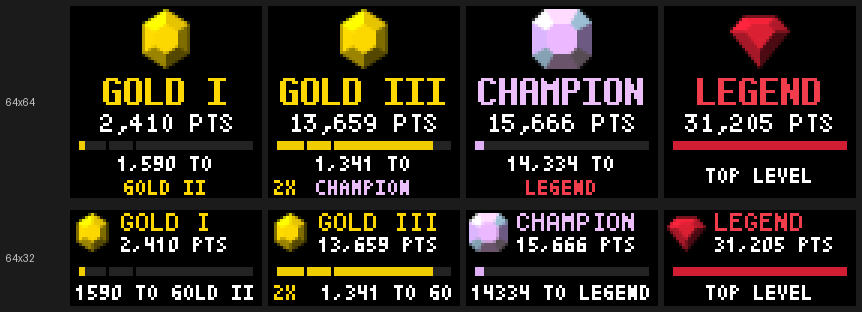
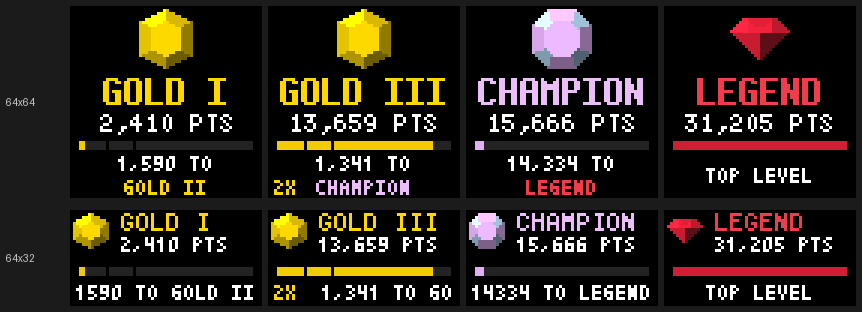
Club page: crisp hand-drawn gems, 2X in the bottom left corner
The gems are now pixel-art grids (GEM_ROWS) with flat facets and no blended
edges, hand-editable like the discipline icons; the 32-row gem is 12 px so the
hexagon's point is centred. 2X moves from the top right to the bottom left
corner on 64x64, as on 64x32.

diff --git a/display/ui/club_screen.py b/display/ui/club_screen.py
@@ -4,12 +4,11 @@ to the next level.
 64 rows: the gem (20 px) at the top, `GOLD III` in the tier's colour, `13,659 PTS`, the bar across the tier
 (a gap where each of its levels starts), then `1,341 TO` over `CHAMPION` in that level's colour (`TOP LEVEL` for
 a Legend); `2X` in gold in the bottom left corner during a double-points boost.
-32 rows: a 13 px gem at the left with the level and points beside it, the bar, then `1,341 TO CHAMPION`
+32 rows: a 12 px gem at the left with the level and points beside it, the bar, then `1,341 TO CHAMPION`
 (`2X` at its left when both fit).
 Before the first score only the gem and the level show (from /api/me).
 State: peloton.club.club_page (validated again here: the cache can hold anything).
 """
-import math
 from functools import lru_cache
 
 from driver import graphics
@@ -28,21 +27,121 @@ GEM_COLORS = {'BRONZE': (235, 115, 35), 'SILVER': (150, 180, 215), 'GOLD': (240,
               'CHAMPION': (225, 175, 245), 'LEGEND': (210, 30, 50)}
 TEXT_COLORS = {'BRONZE': (240, 140, 60), 'SILVER': (200, 215, 235), 'GOLD': (255, 215, 0),
                'CHAMPION': (235, 190, 250), 'LEGEND': (240, 60, 75)}
-# Champion's gem shimmers: its facets take turns in these.
-CHAMPION_FACETS = ((240, 190, 245), (180, 220, 245), (205, 170, 245), (245, 215, 235))
-# The gems' outlines in a 2 x 2 box centred on 0: a hexagon (bronze, silver, gold), an octagon (champion) and
-# a cut diamond (legend), as Peloton draws them; and the point the facets meet at.
-SHAPES = {
-    'HEX': ([(0.9 * math.cos(math.radians(a)), math.sin(math.radians(a))) for a in (-90, -30, 30, 90, 150, 210)],
-            (0.0, 0.0)),
-    'OCT': ([(-0.55, -1), (0.55, -1), (1, -0.55), (1, 0.55), (0.55, 1), (-0.55, 1), (-1, 0.55), (-1, -0.55)],
-            (0.0, 0.0)),
-    'DIAMOND': ([(-0.55, -0.75), (0.55, -0.75), (1, -0.25), (0, 1), (-1, -0.25)], (0.0, -0.25)),
+# The gems, hand-drawn pixel art in Peloton's shapes: a hexagon (bronze, silver, gold), an octagon (Champion) and
+# a cut diamond (Legend). `#` is the flat top face; every other letter is a facet, named for the way it faces,
+# and lit by how much it faces the top left (FACET_SHADES). Outlines step evenly (2 across 1 down on the
+# hexagon, 1 and 1 on the others), facets are flat colour and nothing is blended, so every pixel is crisp.
+# Hand-editable: change a letter, then `python scripts/render_club.py` to see it.
+GEM_ROWS = {
+    ('HEX', 20): (
+        '.........qp.........',
+        '.......qqqppp.......',
+        '.....qqqqqppppp.....',
+        '...qqqqqqqppppppp...',
+        '.wqqqqqqq##pppppppe.',
+        '.wwwqqq######pppeee.',
+        '.wwww##########eeee.',
+        '.wwww##########eeee.',
+        '.wwww##########eeee.',
+        '.wwww##########eeee.',
+        '.wwww##########eeee.',
+        '.wwww##########eeee.',
+        '.wwww##########eeee.',
+        '.wwww##########eeee.',
+        '.wwwzzz######mmmeee.',
+        '.wzzzzzzz##mmmmmmme.',
+        '...zzzzzzzmmmmmmm...',
+        '.....zzzzzmmmmm.....',
+        '.......zzzmmm.......',
+        '.........zm.........'),
+    ('HEX', 12): (
+        '.....qp.....',
+        '...qqqppp...',
+        '.qqqqqppppp.',
+        'wqqqq##ppppe',
+        'wwq######pee',
+        'www######eee',
+        'www######eee',
+        'wwz######mee',
+        'wzzzz##mmmme',
+        '.zzzzzmmmmm.',
+        '...zzzmmm...',
+        '.....zm.....'),
+    ('OCT', 20): (
+        '.....nnnnnnnnnn.....',
+        '....qqnnnnnnnnpp....',
+        '...qqqnnnnnnnnppp...',
+        '..qqqqnnnnnnnnpppp..',
+        '.qqqqqq######pppppp.',
+        'wqqqqq########pppppe',
+        'wwwwq##########peeee',
+        'wwww############eeee',
+        'wwww############eeee',
+        'wwww############eeee',
+        'wwww############eeee',
+        'wwww############eeee',
+        'wwww############eeee',
+        'wwwwz##########meeee',
+        'wzzzzz########mmmmme',
+        '.zzzzzz######mmmmmm.',
+        '..zzzzssssssssmmmm..',
+        '...zzzssssssssmmm...',
+        '....zzssssssssmm....',
+        '.....ssssssssss.....'),
+    ('OCT', 12): (
+        '...nnnnnn...',
+        '..qnnnnnnp..',
+        '.qqnnnnnnpp.',
+        'wqqq####pppe',
+        'wwq######pee',
+        'www######eee',
+        'www######eee',
+        'wwz######mee',
+        'wzzz####mmme',
+        '.zzssssssmm.',
+        '..zssssssm..',
+        '...ssssss...'),
+    ('DIAMOND', 20): (
+        '....................',
+        '....................',
+        '....................',
+        '....qq########pp....',
+        '...qqqn######nppp...',
+        '..qqqqnn####nnpppp..',
+        '.qqqqqnnnnnnnnppppp.',
+        'qqqqqqnnnnnnnnpppppp',
+        '.wwwwwwwwwmmmmmmmmm.',
+        '..wwwwwwwwmmmmmmmm..',
+        '...wwwwwwwmmmmmmm...',
+        '....wwwwwwmmmmmm....',
+        '.....wwwwwmmmmm.....',
+        '......wwwwmmmm......',
+        '.......wwwmmm.......',
+        '........wwmm........',
+        '.........wm.........',
+        '....................',
+        '....................',
+        '....................'),
+    ('DIAMOND', 12): (
+        '............',
+        '............',
+        '..qq####pp..',
+        '.qqqn##nppp.',
+        'qqqqnnnnpppp',
+        '.wwwwwmmmmm.',
+        '..wwwwmmmm..',
+        '...wwwmmm...',
+        '....wwmm....',
+        '.....wm.....',
+        '............',
+        '............'),
 }
 SHAPE_OF = {'CHAMPION': 'OCT', 'LEGEND': 'DIAMOND'}
-TABLE = 0.5  # the flat top face, as a share of the gem
-LIGHT = (-0.6, -0.8)  # light from the top left
-SUBSAMPLES = 4
+# How bright each facet is against the gem's colour: up-left brightest, down-right darkest.
+FACET_SHADES = {'#': 1.06, 'q': 1.3, 'n': 1.15, 'p': 0.9, 'w': 0.95, 'e': 0.6, 'z': 0.72, 's': 0.55, 'm': 0.45}
+# Champion's corner facets catch blue light, as on Peloton's badge.
+CHAMPION_CORNER = (175, 215, 240)
+CORNER_FACETS = frozenset('qpzm')
 # Where the 64-row page puts things: gem box, text baselines, bar rows.
 GEM_64, GEM_TOP_64 = 20, 1
 NAME_Y_64, POINTS_Y_64, BAR_TOP_64, TO_Y_64, NEXT_Y_64 = 33, 42, 45, 55, 63
@@ -50,26 +149,7 @@ TOP_LEVEL_Y_64 = 59  # `TOP LEVEL` alone, midway between the bar and the bottom
 BAR_LEFT, BAR_RIGHT = 3, 60
 # The level name's widest: a pixel clear of each edge.
 LEVEL_WIDTH = 62
-GEM_32, NAME_X_32, NAME_Y_32, POINTS_Y_32, BAR_TOP_32, LINE_Y_32 = 13, 17, 7, 14, 19, 30
-
-
-def _inside(point, polygon):
-    """Inside a convex polygon whose points run clockwise (y down)."""
-    x, y = point
-    for (ax, ay), (bx, by) in zip(polygon, polygon[1:] + polygon[:1]):
-        if (bx - ax) * (y - ay) - (by - ay) * (x - ax) < 0:
-            return False
-    return True
-
-
-def _facet(point, polygon, centre):
-    """Which edge's facet a point is in: the wedge from the centre between that edge's two corners."""
-    angle = math.atan2(point[1] - centre[1], point[0] - centre[0])
-    corners = [math.atan2(y - centre[1], x - centre[0]) for x, y in polygon]
-    for i, start in enumerate(corners[:-1]):
-        if (angle - start) % math.tau <= (corners[i + 1] - start) % math.tau:
-            return i
-    return len(corners) - 1  # the wedge from the last corner round to the first
+GEM_32, NAME_X_32, NAME_Y_32, POINTS_Y_32, BAR_TOP_32, LINE_Y_32 = 12, 17, 7, 14, 19, 30
 
 
 def _shade(color, factor):
@@ -78,37 +158,18 @@ def _shade(color, factor):
 
 @lru_cache(maxsize=16)
 def gem_pixels(kind, size):
-    """Every lit pixel of a `size`-pixel gem as (x, y, r, g, b) from its box's top left: the flat top face in
-    the gem's colour, each edge's facet lit by how much it faces the top left, the edges smoothed (4 x 4
-    samples a pixel). Cached: the page draws the same gem often."""
+    """Every lit pixel of a `size`-pixel gem (20 or 12) as (x, y, r, g, b) from its box's top left, from
+    GEM_ROWS: each facet one flat shade of the gem's colour. An unknown kind is gold. Cached."""
     kind = kind if kind in KINDS else 'GOLD'
-    polygon, centre = SHAPES[SHAPE_OF.get(kind, 'HEX')]
-    table = [(centre[0] + (x - centre[0]) * TABLE, centre[1] + (y - centre[1]) * TABLE) for x, y in polygon]
+    rows = GEM_ROWS[(SHAPE_OF.get(kind, 'HEX'), size)]
     base = GEM_COLORS[kind]
-    colors = []
-    for i, ((ax, ay), (bx, by)) in enumerate(zip(polygon, polygon[1:] + polygon[:1])):
-        length = math.hypot(bx - ax, by - ay) or 1
-        normal = ((by - ay) / length, -(bx - ax) / length)  # outward, for clockwise points with y down
-        facing = normal[0] * LIGHT[0] + normal[1] * LIGHT[1]
-        color = CHAMPION_FACETS[i % len(CHAMPION_FACETS)] if kind == 'CHAMPION' else base
-        colors.append(_shade(color, 0.8 + 0.45 * facing))
-    top = _shade(base, 1.05)
     pixels = []
-    total = SUBSAMPLES * SUBSAMPLES
-    for y in range(size):
-        for x in range(size):
-            mix = [0, 0, 0]
-            for i in range(SUBSAMPLES):
-                for j in range(SUBSAMPLES):
-                    point = (((x + (i + 0.5) / SUBSAMPLES) / size) * 2 - 1,
-                             ((y + (j + 0.5) / SUBSAMPLES) / size) * 2 - 1)
-                    if not _inside(point, polygon):
-                        continue
-                    color = top if _inside(point, table) else colors[_facet(point, polygon, centre)]
-                    for k in range(3):
-                        mix[k] += color[k]
-            if any(mix):
-                pixels.append((x, y) + tuple(round(m / total) for m in mix))
+    for y, row in enumerate(rows):
+        for x, facet in enumerate(row):
+            if facet == '.':
+                continue
+            color = CHAMPION_CORNER if kind == 'CHAMPION' and facet in CORNER_FACETS else base
+            pixels.append((x, y) + _shade(color, FACET_SHADES[facet]))
     return tuple(pixels)
 
 

diff --git a/tests/test_club.py b/tests/test_club.py
@@ -7,8 +7,9 @@ import pytest
 import requests
 
 from display.display import get_text_width, initialize_fonts, loaded_fonts
-from display.ui.club_screen import (BAR_LEFT, BAR_RIGHT, BAR_TRACK, BOOST, GEM_32, GEM_64, GEM_COLORS, TEXT_COLORS,
-                                    ClubScreen, gem_pixels, next_line, points_line)
+from display.ui.club_screen import (BAR_LEFT, BAR_RIGHT, BAR_TRACK, BOOST, FACET_SHADES, GEM_32, GEM_64,
+                                    GEM_COLORS, GEM_ROWS, SHAPE_OF, TEXT_COLORS, ClubScreen, gem_pixels, next_line,
+                                    points_line)
 from peloton import dashboard as dashboard_module
 from peloton.cache import load_snapshot, save_snapshot
 from peloton.club import (LEVELS, NOT_A_MEMBER, club_page, gem_kind, level_from_me, parse_score, tier_fraction,
@@ -498,11 +499,33 @@ def test_lines_shorten_to_fit():
 def test_gems_are_cached_and_lit_in_their_own_colours():
     assert gem_pixels('GOLD', 20) is gem_pixels('GOLD', 20)
     for kind in GEM_COLORS:
-        pixels = gem_pixels(kind, GEM_64)
-        assert len(pixels) > 150 and all(0 <= x < GEM_64 and 0 <= y < GEM_64 for x, y, *_ in pixels)
-    assert gem_pixels('PLATINUM', 13) == gem_pixels('GOLD', 13)
+        for size in (GEM_64, GEM_32):
+            pixels = gem_pixels(kind, size)
+            assert len(pixels) > size * size // 3 and all(0 <= x < size and 0 <= y < size for x, y, *_ in pixels)
+    assert gem_pixels('PLATINUM', GEM_32) == gem_pixels('GOLD', GEM_32)
     red = [(r, g, b) for *_, r, g, b in gem_pixels('LEGEND', GEM_64)]
     assert all(r >= g and r >= b for r, g, b in red)
+    corners = {(r, g, b) for *_, r, g, b in gem_pixels('CHAMPION', GEM_64)}
+    assert any(b > r for r, g, b in corners), "Champion's blue corner facets"
+
+
+@pytest.mark.parametrize('key', sorted(GEM_ROWS))
+def test_the_gem_grids_are_square_symmetric_pixel_art(key):
+    shape, size = key
+    rows = GEM_ROWS[key]
+    assert len(rows) == size and all(len(row) == size for row in rows)
+    assert all(set(row) <= set(FACET_SHADES) | {'.'} for row in rows), 'only known facets'
+    assert all([c == '.' for c in row] == [c == '.' for c in row[::-1]] for row in rows), 'a symmetric outline'
+    assert sum(row.count('#') for row in rows) > 0, 'a flat top face'
+
+
+def test_the_gems_are_crisp_flat_facets():
+    """Each facet is one colour: a gem has no more colours than facets (no blended edges)."""
+    for kind in GEM_COLORS:
+        for size in (GEM_64, GEM_32):
+            rows = GEM_ROWS[(SHAPE_OF.get(kind, 'HEX'), size)]
+            facets = set(''.join(rows)) - {'.'}
+            assert len({tuple(p[2:]) for p in gem_pixels(kind, size)}) <= len(facets)
 
 
 @pytest.mark.parametrize('state', [

diff --git a/docs/dev/ROTATION.md b/docs/dev/ROTATION.md
@@ -24,7 +24,7 @@ The `next_class` section (ROADMAP item 19, built 2026-11-14; last in the default
 
 ## Club Peloton
 
-The `club` section (ROADMAP item 25, built 2026-11-14; last in the default rotation) is one `club` page from `peloton.club.club_page`: the cached score (`parse_score`) when there is one, else the level alone from the profile's `badge_level` (`level_from_me`, `points: None`), and nothing for `NOT_A_MEMBER` (a 404); `page_seconds(display, 'club', ...)`. State: the record plus `kind` (`gem_kind`: the level's first word, anything else `GOLD`) and `boost` (`boost_until` still ahead of `time.time()`). `display/ui/club_screen.py` draws it; `valid_page` checks the state again. The gems are drawn, not Peloton's images (their shapes and colours from Peloton's badges): `gem_pixels(kind, size)` fills the outline (`SHAPES`: hexagon for bronze/silver/gold, octagon for Champion, cut diamond for Legend) with a flat top face (`TABLE`, half size) and one facet per edge, each shaded by how much it faces the top left (Champion's facets take turns in `CHAMPION_FACETS`), 4x4 samples a pixel, cached by `lru_cache`. 64 rows: gem 20 px at (22, 1); the level in its `TEXT_COLORS` `bold` at baseline 33 (`titles` past 62 px: `BRONZE II`/`III`, `SILVER II`/`III`); `13,659 PTS` in white `titles` at 42 (`points_line`: the comma, then `PTS`, dropped to fit); the bar rows 45-47 from column 3 to 60 (`_bar`: `tier_min` to `tier_max` lit in the gem colour over `BAR_TRACK`, one dark column at each of `marks`, the levels inside the tier; full with no `tier_max`); then `1,341 TO` in white `stats` at 55 and the next level in its colour at 63, or `TOP LEVEL` alone at 59; during a boost `2X` in gold `stats` at x 2 on row 63, as on 32 rows (moved from the top right at Joel's request, 2026-11-14), when it clears the next level's name by 2 px of advance, 3 blank columns (`SILVER III` and `BRONZE III` leave exactly that; a made-up 15-character name doesn't). `next_line` gives the one-line wordings (`1,341 TO CHAMPION`, no comma, `1,341 TO GO`). The level-only page is the gem, the level and `CLUB PELOTON` in grey at 63. 32 rows: `docs/64x32-NOTES.md`. `tests/test_club.py` `LARGEST` sweeps every metal, `SILVER III`, `CHAMPION`, 6-digit points, 5-digit remainders and made-up long names on both heights: nothing off the panel, nothing over the gem, clear rows around the bar.
+The `club` section (ROADMAP item 25, built 2026-11-14; last in the default rotation) is one `club` page from `peloton.club.club_page`: the cached score (`parse_score`) when there is one, else the level alone from the profile's `badge_level` (`level_from_me`, `points: None`), and nothing for `NOT_A_MEMBER` (a 404); `page_seconds(display, 'club', ...)`. State: the record plus `kind` (`gem_kind`: the level's first word, anything else `GOLD`) and `boost` (`boost_until` still ahead of `time.time()`). `display/ui/club_screen.py` draws it; `valid_page` checks the state again. The gems are hand-drawn pixel art, not Peloton's images (their shapes and colours from Peloton's badges): `GEM_ROWS` holds each shape (hexagon for bronze/silver/gold, octagon for Champion, cut diamond for Legend) at 20 px (64 rows) and 12 px (32 rows) as strings, `#` the flat top face and each other letter a facet named for the way it faces (`q` up-left to `m` down-right), shaded by `FACET_SHADES` (Champion's corner facets `qpzm` in `CHAMPION_CORNER` blue). Outlines step evenly (2 across 1 down on the hexagon, 1 and 1 on the others) and nothing is blended, so every pixel is crisp (Joel, 2026-11-14: the first version's 4x4-sampled edges looked soft). Hand-editable: change a letter, then `python scripts/render_club.py`; `tests/test_club.py` checks every grid is square with a symmetric outline. `gem_pixels(kind, size)` reads them, cached by `lru_cache`. 64 rows: gem 20 px at (22, 1); the level in its `TEXT_COLORS` `bold` at baseline 33 (`titles` past 62 px: `BRONZE II`/`III`, `SILVER II`/`III`); `13,659 PTS` in white `titles` at 42 (`points_line`: the comma, then `PTS`, dropped to fit); the bar rows 45-47 from column 3 to 60 (`_bar`: `tier_min` to `tier_max` lit in the gem colour over `BAR_TRACK`, one dark column at each of `marks`, the levels inside the tier; full with no `tier_max`); then `1,341 TO` in white `stats` at 55 and the next level in its colour at 63, or `TOP LEVEL` alone at 59; during a boost `2X` in gold `stats` at x 2 on row 63, as on 32 rows (moved from the top right at Joel's request, 2026-11-14), when it clears the next level's name by 2 px of advance, 3 blank columns (`SILVER III` and `BRONZE III` leave exactly that; a made-up 15-character name doesn't). `next_line` gives the one-line wordings (`1,341 TO CHAMPION`, no comma, `1,341 TO GO`). The level-only page is the gem, the level and `CLUB PELOTON` in grey at 63. 32 rows: `docs/64x32-NOTES.md`. `tests/test_club.py` `LARGEST` sweeps every metal, `SILVER III`, `CHAMPION`, 6-digit points, 5-digit remainders and made-up long names on both heights: nothing off the panel, nothing over the gem, clear rows around the bar.
 
 ## Milestones and the countdown
 

diff --git a/docs/64x32-NOTES.md b/docs/64x32-NOTES.md
@@ -232,7 +232,7 @@ text pages, revert the `lifetime_overview_pages(... page_size=...)` change in
   slides it keeps the heart-rate/calorie row.
 
 ### Club Peloton (both boards, 2026-11-14)
-- 64x64: `docs/dev/ROTATION.md`. 64x32: a 13 px gem at (1, 1), the level in its colour in 5x8 (`discipline`) at x 17, baseline 7 (4x6 past 47 px: `SILVER III`), `13,659 PTS` in white 4x6 at 14, a 3-row bar from column 3 to 60 at row 19, then at 30 `1,341 TO GO` centred. `1,341 TO CHAMPION` is 68 px and `1341 TO CHAMPION` 64, more than the 62 px line, so a Gold III rider sees `TO GO`; `14,334 TO LEGEND` fits only without its comma (`14334 TO LEGEND`). During a boost `2X` goes in gold at x 2 with the line right-aligned to 61, when both fit with 4 px between; otherwise the line alone. Before the first score: the gem at (2, 9) and the level at baseline 18, nothing else.
+- 64x64: `docs/dev/ROTATION.md`. 64x32: a 12 px gem at (1, 1) (13 px until the gems became hand-drawn grids, 2026-11-14: an even size centres the hexagon's 2-px point), the level in its colour in 5x8 (`discipline`) at x 17, baseline 7 (4x6 past 47 px: `SILVER III`), `13,659 PTS` in white 4x6 at 14, a 3-row bar from column 3 to 60 at row 19, then at 30 `1,341 TO GO` centred. `1,341 TO CHAMPION` is 68 px and `1341 TO CHAMPION` 64, more than the 62 px line, so a Gold III rider sees `TO GO`; `14,334 TO LEGEND` fits only without its comma (`14334 TO LEGEND`). During a boost `2X` goes in gold at x 2 with the line right-aligned to 61, when both fit with 4 px between; otherwise the line alone. Before the first score: the gem at (2, 10) and the level at baseline 18, nothing else.
 - Checked against the largest values (`tests/test_club.py` `LARGEST`) on both heights: nothing off the panel, the gem's box clear of text, clear rows around the bar.
 - Every other page is unchanged on both boards.
 
